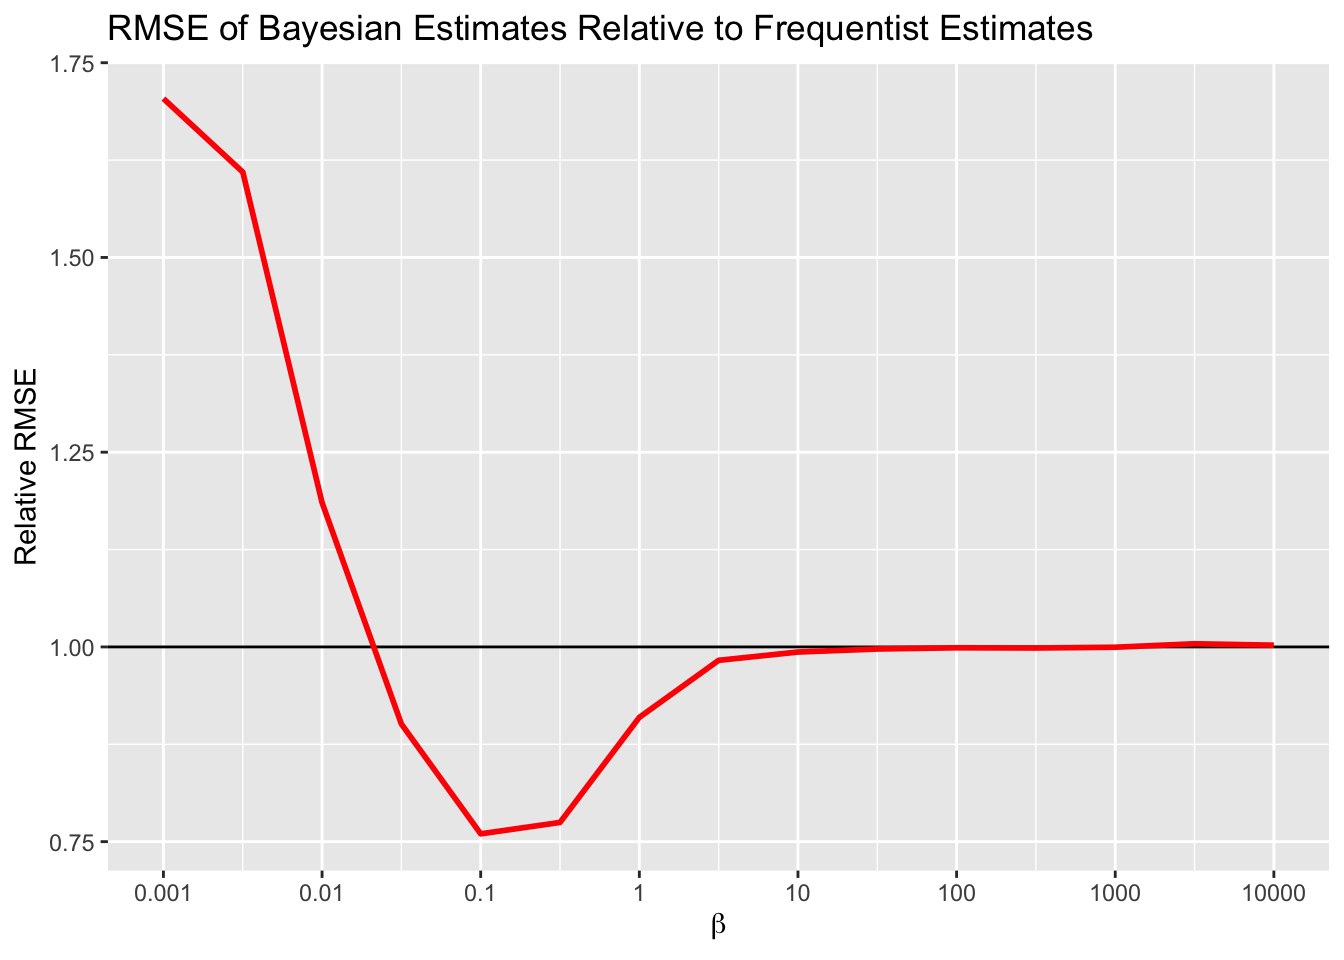
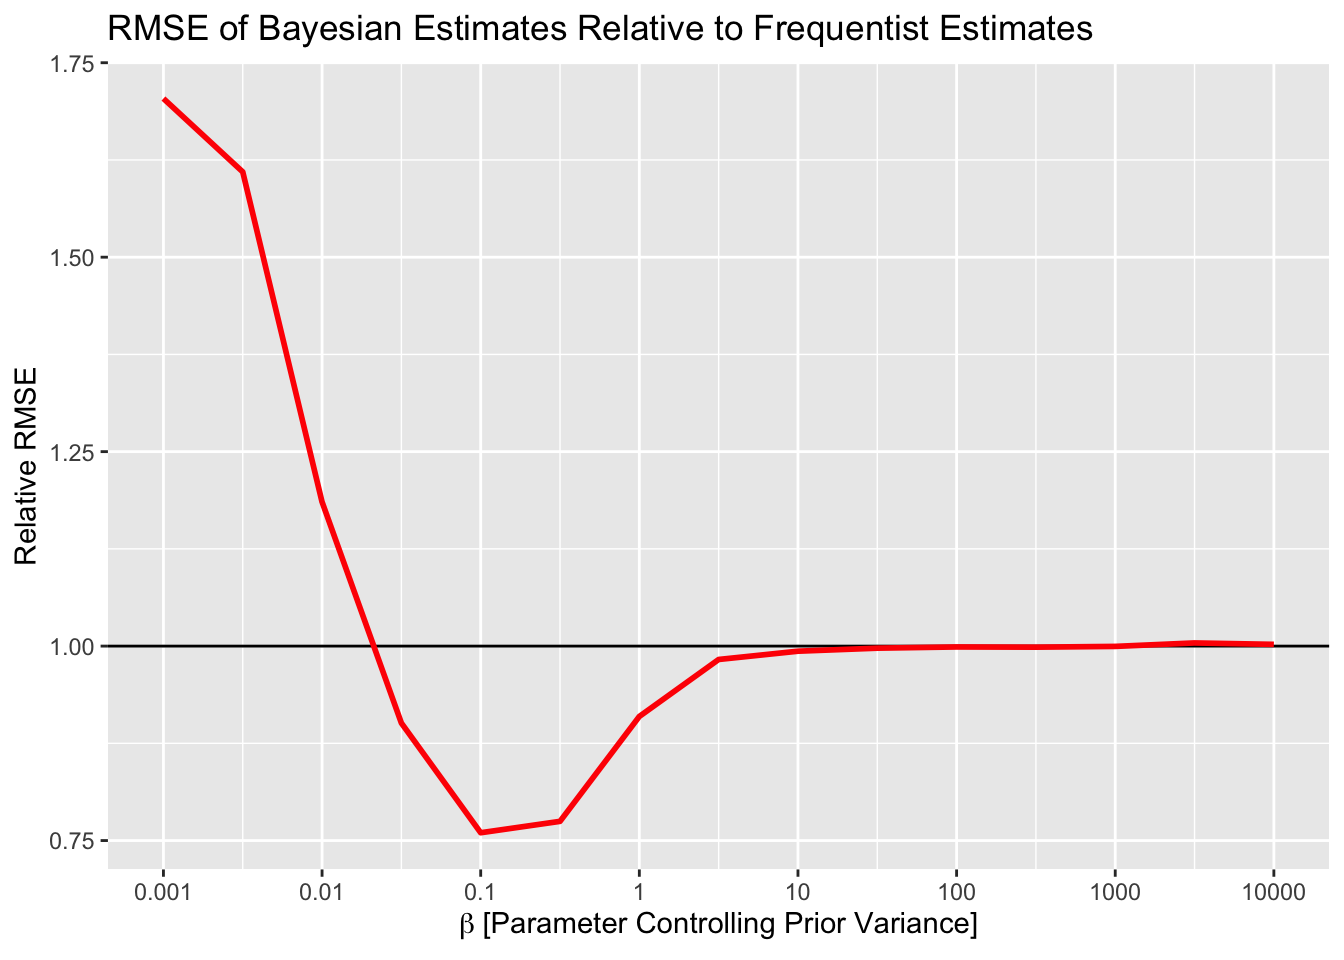
edit x lab

diff --git a/docs/index.html b/docs/index.html
@@ -215,7 +215,7 @@ window.Quarto = {
 
 <div class="quarto-listing quarto-listing-container-default" id="listing-listing">
 <div class="list quarto-listing-default">
-<div class="quarto-post image-right" data-index="0" data-categories="" data-listing-date-sort="1742270400000" data-listing-file-modified-sort="1742329610715" data-listing-date-modified-sort="NaN" data-listing-reading-time-sort="5" data-listing-word-count-sort="920">
+<div class="quarto-post image-right" data-index="0" data-categories="" data-listing-date-sort="1742270400000" data-listing-file-modified-sort="1742329948152" data-listing-date-modified-sort="NaN" data-listing-reading-time-sort="5" data-listing-word-count-sort="925">
 <div class="thumbnail">
 <p><a href="./posts/2025-03-17-bayes-big-deal/index.html" class="no-external"></a></p><a href="./posts/2025-03-17-bayes-big-deal/index.html" class="no-external">
 <p class="card-img-top"><img src="posts/2025-03-17-bayes-big-deal/index_files/figure-html/unnamed-chunk-3-1.png"  class="thumbnail-image card-img"/></p>
